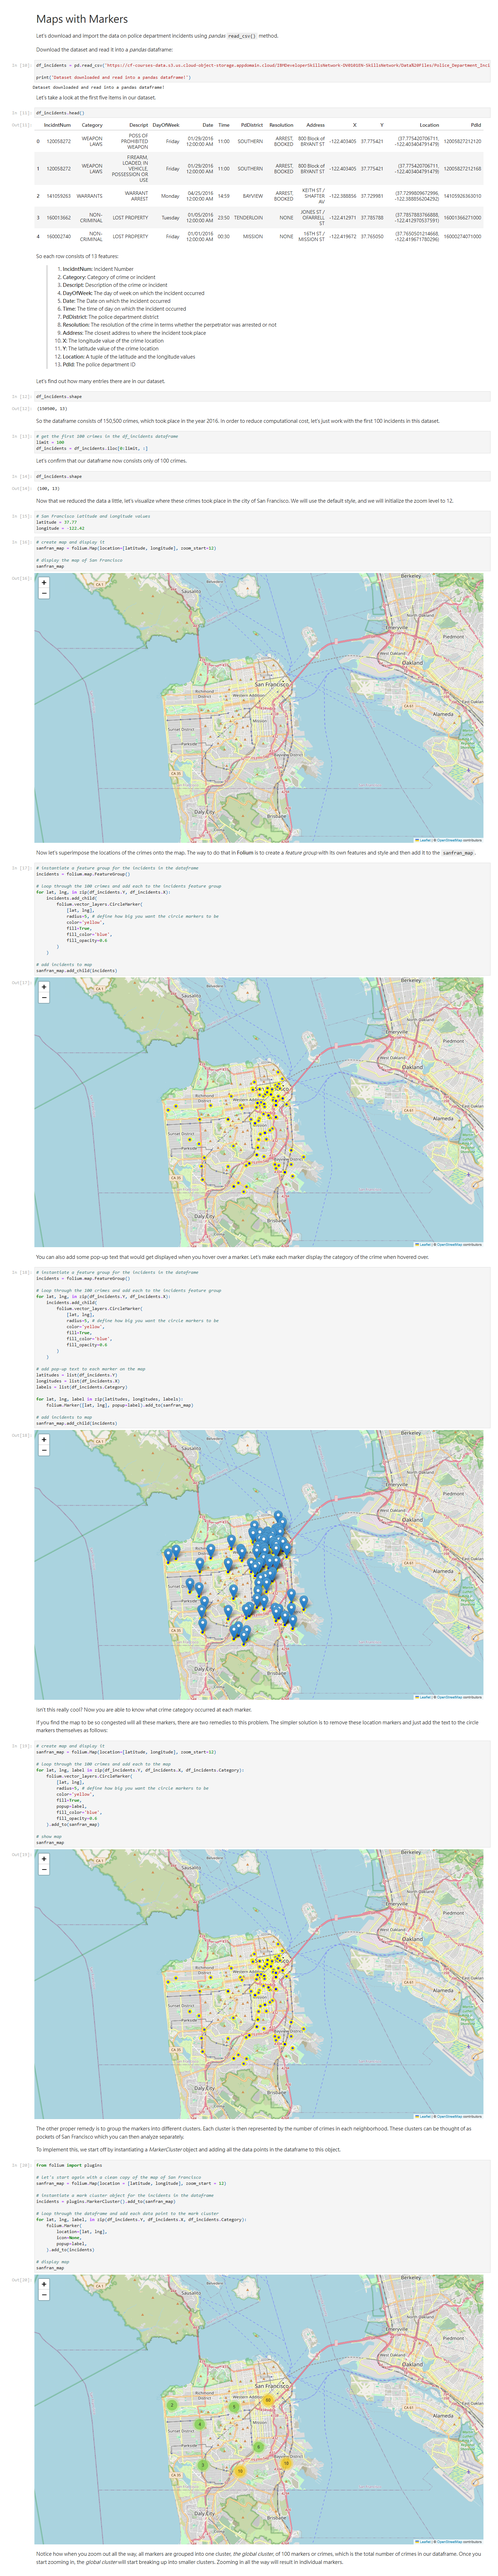
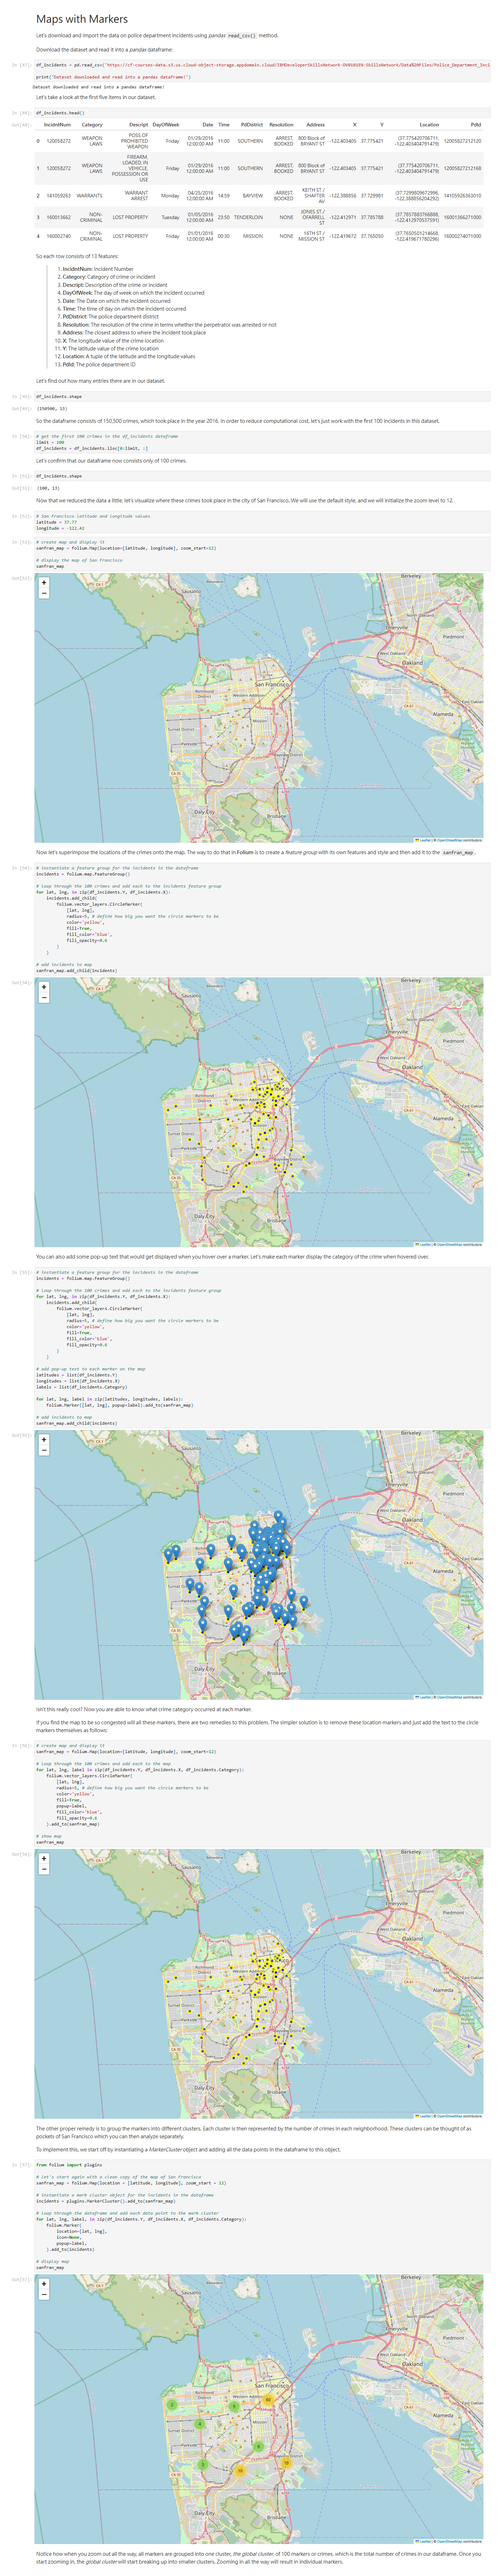
Keep the Module 03 Lab02 fix, undo the collateral damage
Kelden's 76512e4 replaced the CartoDB tiles (now API-key only) with free Esri
tiles in my Module 03 Lab02 notebook and re-executed it - that fix is kept, the
notebook still runs with 0 errors.

The same commit also renamed the notebook to '... Module 03.ipynb', swapped the
capture script to his Lab01 settings (Mod03_L1, 'Import libraries') and dropped
one of my screenshots while adding his. Restored: the '- Lab02' filename, my
script configuration and the MIN_GROUP_HEIGHT merge, and a fresh Mod03_L2_01-03
set captured from the fixed notebook.

diff --git a/Lab_Exercises/Module_03/Lab_02/notebook_screenshots.py b/Lab_Exercises/Module_03/Lab_02/notebook_screenshots.py
@@ -21,12 +21,12 @@ OUTPUT_FOLDER = Path("screenshots")
 # Set to "" to use the notebook's own filename instead.
 # (If you process several notebooks at once, use "" so files don't
 #  overwrite each other.)
-OUTPUT_PREFIX = "Mod03_L1"
+OUTPUT_PREFIX = "Mod03_L2"
 
 # Screenshots start at the first Markdown heading containing this text
 # (case-insensitive). Everything before it is skipped.
 # Set to "" to start from the top of the notebook.
-START_HEADING = "Import libraries"
+START_HEADING = "Import"
 
 # Which Markdown heading levels start a new screenshot.
 #   None      = automatic: every heading at the SAME level as the start
@@ -35,6 +35,10 @@ START_HEADING = "Import libraries"
 #               "##" (and "#") heading starts a new screenshot.
 #   [1,2,3]   = split on exactly these levels (1 = "#", 2 = "##", ...).
 #   [1,2,3,4,5,6] = split on every heading.
+# Merge any section shorter than this into the following one, so that no
+# screenshot is too small to read (the assignment penalises that).
+MIN_GROUP_HEIGHT = 420
+
 SECTION_HEADING_LEVELS = None
 
 # ==================================================
@@ -152,6 +156,23 @@ GROUP_CELLS_JS = r"""
         }
     }
 
+    // Merge any group that would produce an unreadably short screenshot into the
+    // next group, so every capture carries a heading plus its code and output.
+    const minHeight = config.minHeight || 0;
+
+    if (minHeight > 0 && groups.length > 1) {
+        for (let i = groups.length - 2; i >= 0; i--) {
+            const rect = groups[i][0].getBoundingClientRect();
+            const last = groups[i][groups[i].length - 1].getBoundingClientRect();
+            const height = (last.bottom - rect.top);
+
+            if (height < minHeight) {
+                groups[i + 1] = groups[i].concat(groups[i + 1]);
+                groups.splice(i, 1);
+            }
+        }
+    }
+
     // Wrap each section so it can be screenshotted as its own element.
     groups.forEach(group => {
         const first = group[0];
@@ -258,6 +279,7 @@ async def capture_notebook(browser, notebook_path):
                 {
                     "levels": SECTION_HEADING_LEVELS,
                     "startHeading": START_HEADING,
+                    "minHeight": MIN_GROUP_HEIGHT,
                 }
             )
 
@@ -300,7 +322,7 @@ async def main():
     # Find notebooks in this folder only, not nested folders.
     notebooks = sorted(
         path
-        for path in NOTEBOOK_FOLDER.glob("*.ipynb")
+        for path in NOTEBOOK_FOLDER.glob("CISC7204 Assgn02 Module 03 - Lab02.ipynb")
         if path.is_file()
     )
 
